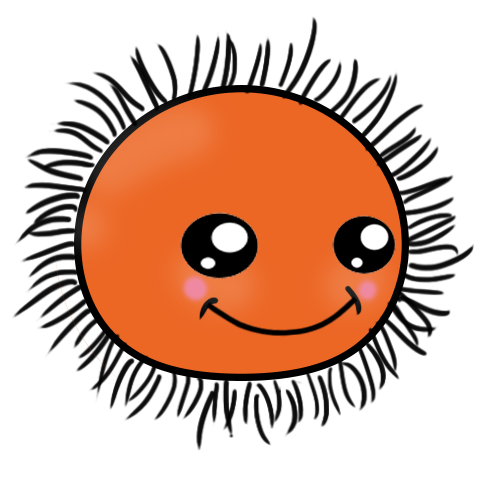
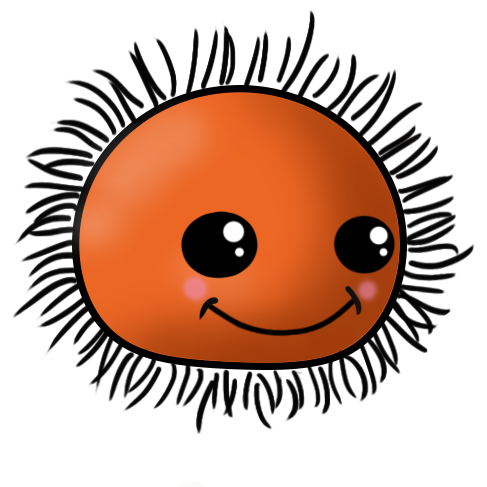
Added Puffer

Changed region(s): [[0.0308, 0.0308, 0.9856, 0.924], [0.2464, 0.3696, 0.308, 0.4312]]

diff --git a/Assets/Scripts/PufferBehavior.cs b/Assets/Scripts/PufferBehavior.cs
@@ -2,7 +2,10 @@
 using System.Collections;
 
 public class PufferBehavior : MonoBehaviour {
-	private float distFromMeemoToActivateTrigger = 5f;
+	private float distFromMeemoToActivateTrigger = 10f;
+	private float timer = -1.0f;
+	private const float MAX_TIME = 3.0f;
+	public Animator anim;
 
 	#region state support
 	public enum PufferState
@@ -16,18 +19,44 @@ public class PufferBehavior : MonoBehaviour {
 	// Use this for initialization
 	void Start () {
 		currentState = PufferState.Little;
+		anim = GetComponentInParent<Animator> ();
 	}
 
 	// Update is called once per frame
 	void Update () {
 		Canvas gameOverCanvas = GameObject.Find ("GameOverCanvas").GetComponent<Canvas> ();
-		if (currentState == PufferState.Little && !gameOverCanvas.enabled) {
+		if (!gameOverCanvas.enabled) {
 			Hero_Interaction meemo = GameObject.FindGameObjectWithTag ("Player").GetComponent<Hero_Interaction> ();
-			if (Vector3.Distance (meemo.transform.position, transform.position) < distFromMeemoToActivateTrigger) {
-				currentState = PufferState.Puffed;
+			switch (currentState) {
+			case PufferState.Little:
+				if (Vector3.Distance (meemo.transform.position, transform.position) < distFromMeemoToActivateTrigger) {
+					currentState = PufferState.Puffed;
+					Debug.Log (currentState);
+					anim.SetBool ("bool",true);
+				}
+				break;
+			case PufferState.Puffed:
+				Debug.Log (timer);
+				if (Vector3.Distance (meemo.transform.position, transform.position) < distFromMeemoToActivateTrigger) {
+					if (timer != -1.0f) {
+						timer = 0.0f;
+					}
+				} else {
+					if (timer == -1.0f) {
+						timer = 0.0f;
+					} else {
+						if (timer >= MAX_TIME) {
+							currentState = PufferState.Little;
+							Debug.Log (currentState);
+							anim.SetBool ("bool",false);
+						} else {
+							timer += Time.deltaTime;
+
+						}
+					}
+				}
+				break;
 			}
-		} else {
-			
 		}
 	}
 }
